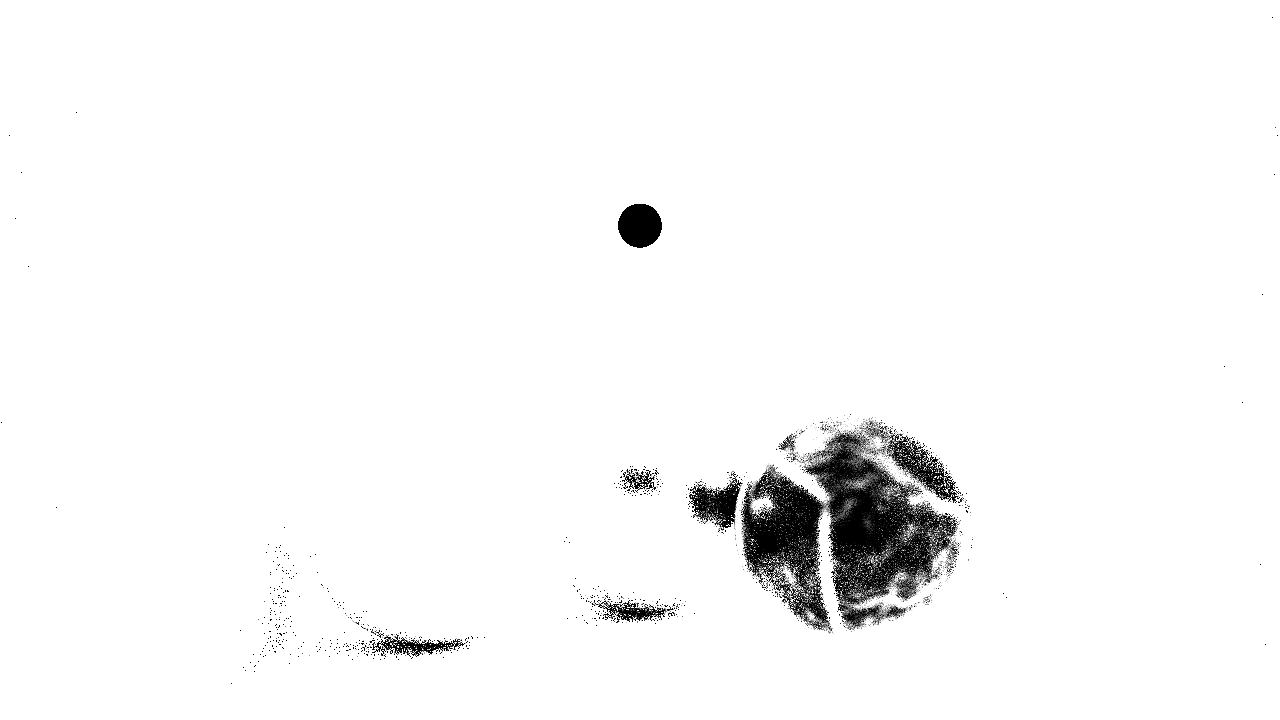
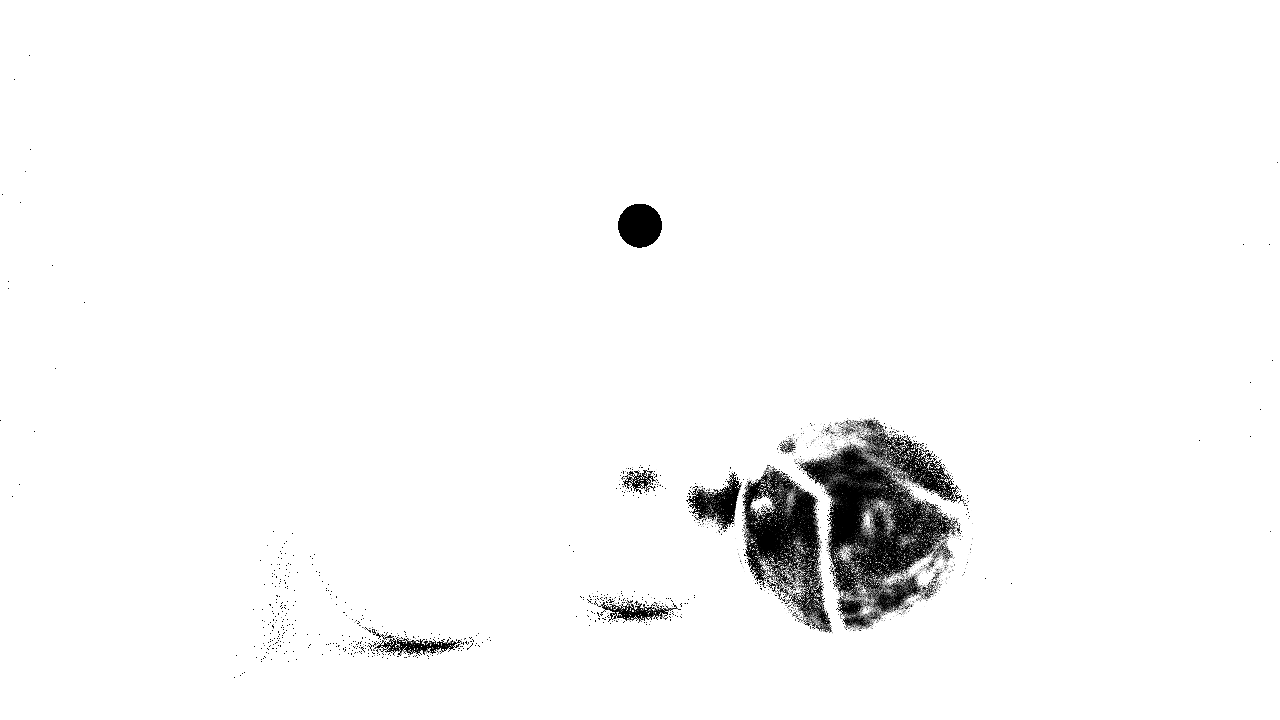
Added specular lighting back into direct illumination

Changed region(s): [[0.4688, 0.5806, 0.75, 0.8861], [0.2812, 0.8556, 0.375, 0.9167], [0.4688, 0.825, 0.5312, 0.8861]]

diff --git a/src/materials.h b/src/materials.h
@@ -81,26 +81,37 @@ public:
 
 	bool GenerateSample( SamplerInfo const &sInfo, Vec3f &dir, Info &si ) const override 
     {
-        const float randomNum{ sInfo.RandomFloat() };
-        const float diffuseProb{ diffuse.GetValue().Gray() };
-        const float specularProb{ specular.GetValue().Gray() };
-        const float transmissiveProb{ refraction.GetValue().Gray() };
+        float diffuseProb{ diffuse.GetValue().Gray() };
+        float specularProb{ specular.GetValue().Gray() };
+        float transmissiveProb{ refraction.GetValue().Gray() };
 
+        const float totalProb{ diffuseProb + specularProb + transmissiveProb };
+        if (totalProb > 1.0f)
+        {
+            diffuseProb /= totalProb;
+            specularProb /= totalProb;
+            transmissiveProb /= totalProb;
+        }
+
+        const float randomNum{ sInfo.RandomFloat() };
         if (randomNum < diffuseProb)
         {
             si.lobe = DirSampler::Lobe::DIFFUSE;
+            si.mult = diffuse.GetValue();
             si.prob = diffuseProb;
             return true;
         }
         if (randomNum < diffuseProb + specularProb)
         {
             si.lobe = DirSampler::Lobe::SPECULAR;
+            si.mult = specular.GetValue();
             si.prob = specularProb;
             return true;
         }
         if (randomNum < diffuseProb + specularProb + transmissiveProb)
         {
             si.lobe = DirSampler::Lobe::TRANSMISSION;
+            si.mult = refraction.GetValue();
             si.prob = transmissiveProb;
             return true;
         }

diff --git a/src/materials.cpp b/src/materials.cpp
@@ -22,12 +22,21 @@ Color MtlBlinn::Shade(ShadeInfo const &shadeInfo) const
     // Calculate color for this object
     const Color diffuseColor{ diffuse.Eval(shadeInfo.UVW()) };
 
-    if (IsPhotonSurface())
+    if (IsPhotonSurface() || specular.GetValue().Sum() > 0.0f)
     {
         Color lightIntensity;
         Vec3f lightDir;
         renderer.GetPhotonMap()->EstimateIrradiance<100>(lightIntensity, lightDir, 1.0f, shadeInfo.P(), normal, 1.0f);
-        finalColor += (1.0f / M_PI) * diffuseColor * lightIntensity;
+
+        if (IsPhotonSurface())
+            finalColor += (1.0f / M_PI) * diffuseColor * lightIntensity;
+
+        if (specular.GetValue().Sum() > 0.0f)
+        {
+            const Vec3f halfway{ (shadeInfo.V() + lightDir).GetNormalized() };
+            const float blinnTerm{ std::max(0.0f, normal.Dot(halfway)) };
+            finalColor += ((glossiness.GetValue() + 2) / (8.0f * M_PI)) * specular.GetValue() * pow(blinnTerm, glossiness.GetValue()) * lightIntensity;
+        }
     }
     //const float geometryTerm{ std::max(0.0f, normal.Dot(lightDir)) };
 

diff --git a/src/main.cpp b/src/main.cpp
@@ -312,6 +312,10 @@ int main()
 
         if (!photonMap.AddPhoton(hInfo.p, photonRay.dir, c))
             break;
+
+        //photonRay.dir = newDir;
+        photonRay.p = hInfo.p;
+        c *= info.mult / info.prob;
     }
     photonMap.ScalePhotonPowers(1.0f / static_cast<float>(photonMap.NumPhotons()));
     photonMap.PrepareForIrradianceEstimation();
